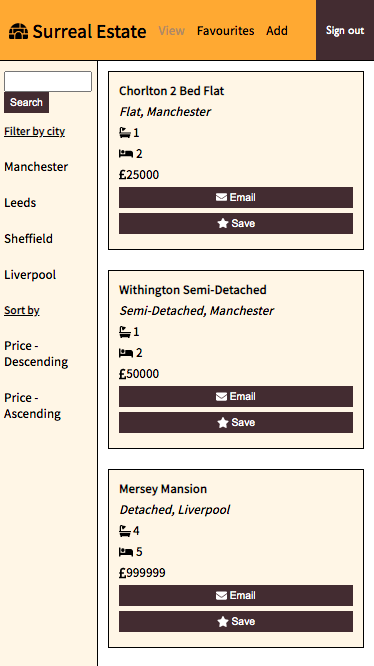
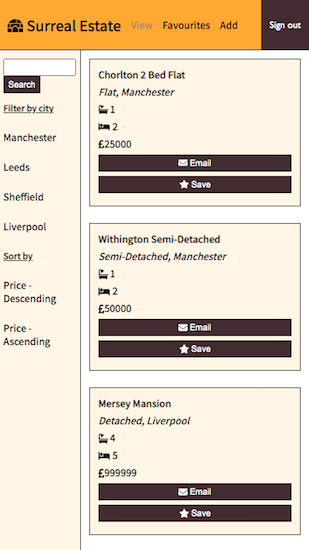
add README screenshots

diff --git a/README.md b/README.md
@@ -6,11 +6,11 @@ This app interacts with a database via API requests to allow the user to view/ad
 
 ### Desktop
 
-![App desktop screenshot](url)
+![App desktop screenshot](https://github.com/scented-wiring/surreal-estate/blob/master/README_screenshots/desktop-screenshot.png)
 
 ### Mobile
 
-![App mobile screenshot](url)
+![App mobile screenshot](https://github.com/scented-wiring/surreal-estate/blob/master/README_screenshots/mobile-screenshot.png)
 
 ## Built with
 
